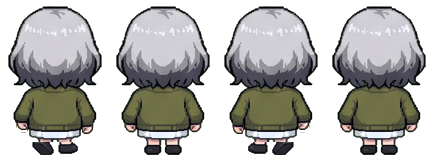
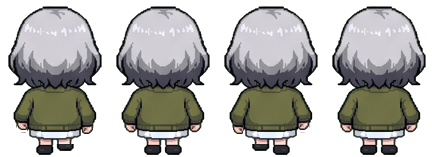
뒷모습 걷기: 편집 다리 대신 정지 그림의 다리를 한쪽씩 4px 올려 만듦 (오리발·끊김 해결)
손 옮길 때 손 하이라이트가 원피스로 잘못 분류되어 구멍이 나던 문제도 수정 (정면에도 적용).

Claude-Session: https://claude.ai/code/session_01MBgVgKbFxkEXND4zuEcjdV

Changed region(s): [[0.5718, 0.8917, 0.6921, 0.9936], [0.0602, 0.8917, 0.1806, 0.9936]]

diff --git a/tools/sprite_cleanup/compose_walk.py b/tools/sprite_cleanup/compose_walk.py
@@ -41,7 +41,7 @@ def swing_hands(img, sa, s_hem, amount):
     sizes = ndi.sum(np.ones(lab.shape), lab, range(1, n + 1))
     blobs = sorted(np.argsort(sizes)[-2:] + 1, key=lambda i: np.nonzero(lab == i)[1].mean())
     out = img.copy()
-    white = al & (a[..., 0] > 200) & (a[..., 1] > 200) & (a[..., 2] > 200)
+    white = al & (a[..., 0] > 200) & (a[..., 1] > 200) & (a[..., 2] > 200) & (a[..., 2] >= a[..., 0] - 5)   # 원피스(푸른 흰색)만, 손 하이라이트 제외
     for side, i in zip((-1, 1), blobs):            # 왼쪽 손, 오른쪽 손
         ys, xs = np.nonzero(lab == i)
         y0, y1 = ys.min() - 8, ys.max() + 3          # 소매 끝부분 + 손 (외곽선 포함)
@@ -69,7 +69,32 @@ def swing_hands(img, sa, s_hem, amount):
     return out
 
 
-def main(out_dir, name, idle_name, legs_src, fps=6, body=False, hands=0):
+def lift_leg(sa, s_hem, side, n):
+    """정지 그림의 다리 중 한쪽(side -1 왼쪽 / 1 오른쪽)을 n px 위로 올린다 (원피스 밑단 뒤로 들어감).
+    뒷모습에서 앞으로 내딛는 발은 화면 위쪽으로 올라가 보이므로, 편집 그림 없이 정지 그림의 다리로 걷기를 만든다."""
+    out = sa.copy()
+    top = s_hem + 1
+    legs = sa[top:]
+    al = legs[..., 3] > 0
+    xs = np.nonzero(al.any(0))[0]
+    if xs.size == 0:
+        return out
+    # 두 다리 사이 틈: 다리 구역 가운데 근처에서 불투명 픽셀이 가장 적은 열
+    mid = (xs[0] + xs[-1]) // 2
+    cols = range(mid - 6, mid + 7)
+    gap = min(cols, key=lambda c: (al[:, c].sum(), abs(c - mid)))
+    sl = slice(0, gap) if side < 0 else slice(gap, sa.shape[1])
+    part = legs[:, sl].copy()
+    out[top:, sl] = 0
+    shifted = np.zeros_like(part)
+    shifted[:part.shape[0] - n] = part[n:]
+    region = out[top:, sl]
+    m = shifted[..., 3] > 0
+    region[m] = shifted[m]
+    return out
+
+
+def main(out_dir, name, idle_name, legs_src, fps=6, body=False, hands=0, lift=0):
     out = Path(out_dir)
     meta = json.loads((out / "frames.json").read_text(encoding="utf-8"))
     cw, ch = meta["cell"]
@@ -78,6 +103,23 @@ def main(out_dir, name, idle_name, legs_src, fps=6, body=False, hands=0):
     s_al = sa[..., 3] > 128
     s_top = np.nonzero(s_al.any(1))[0][0]
     s_hem = hem_row(sa)
+
+    if lift:
+        # 편집 그림 없이: 한쪽 다리를 올린 칸 / 서기 / 반대쪽 다리를 올린 칸 / 서기
+        a1 = lift_leg(sa, s_hem, 1, lift)
+        a2 = lift_leg(sa, s_hem, -1, lift)
+        if hands:
+            a1 = swing_hands(a1, sa, s_hem, hands)
+            a2 = swing_hands(a2, sa, s_hem, -hands)
+        frames = [Image.fromarray(a1, "RGBA"), stand, Image.fromarray(a2, "RGBA"), stand]
+        sheet = Image.new("RGBA", (cw * 4, ch), (0, 0, 0, 0))
+        for i, f in enumerate(frames):
+            sheet.alpha_composite(f, (i * cw, 0))
+        sheet.save(out / f"{name}.png")
+        meta["animations"][name] = {"frames": 4, "cell": [cw, ch], "fps": fps, "loop": True}
+        (out / "frames.json").write_text(json.dumps(meta, ensure_ascii=False, indent=2), encoding="utf-8")
+        print(f"{name}: 4칸 (다리 {lift}px 올림)")
+        return
 
     src = Image.fromarray(key_green(np.array(Image.open(legs_src).convert("RGB"))), "RGBA")
     src = src.crop(src.getbbox())

diff --git a/tools/sprite_cleanup/clean_chroma.py b/tools/sprite_cleanup/clean_chroma.py
@@ -300,8 +300,8 @@ def main(cfg_path, out_dir):
     # 다리 합성 걷기 (정지 그림 + 다리 편집 그림). compose_walk.py 참고
     for cw_opt in cfg.get("compose_walks", []):
         from compose_walk import main as compose
-        compose(out, cw_opt["name"], cw_opt["idle"], str(Path(cfg_path).parent / cw_opt["legs"]), cw_opt.get("fps", 6),
-                cw_opt.get("body", False), cw_opt.get("hands", 0))
+        compose(out, cw_opt["name"], cw_opt["idle"], str(Path(cfg_path).parent / cw_opt.get("legs", "")), cw_opt.get("fps", 6),
+                cw_opt.get("body", False), cw_opt.get("hands", 0), cw_opt.get("lift", 0))
 
 
 def breathe(path, n, cw, ch, idx):
